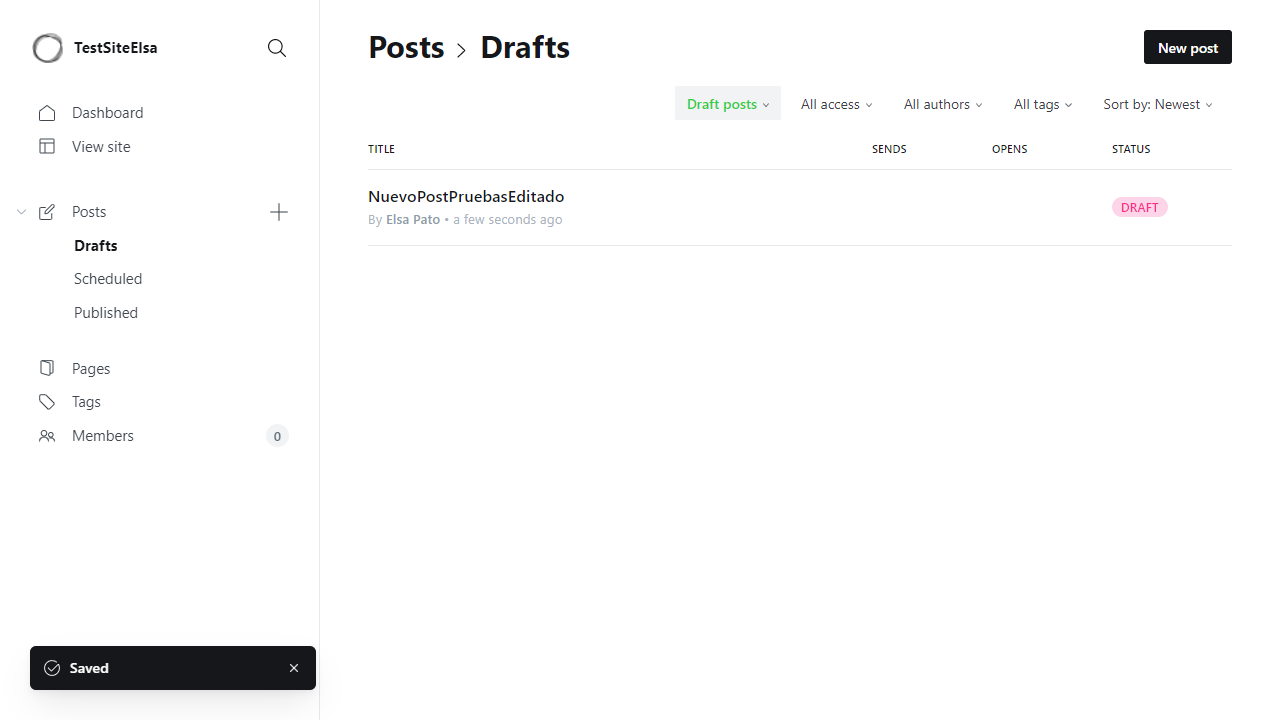
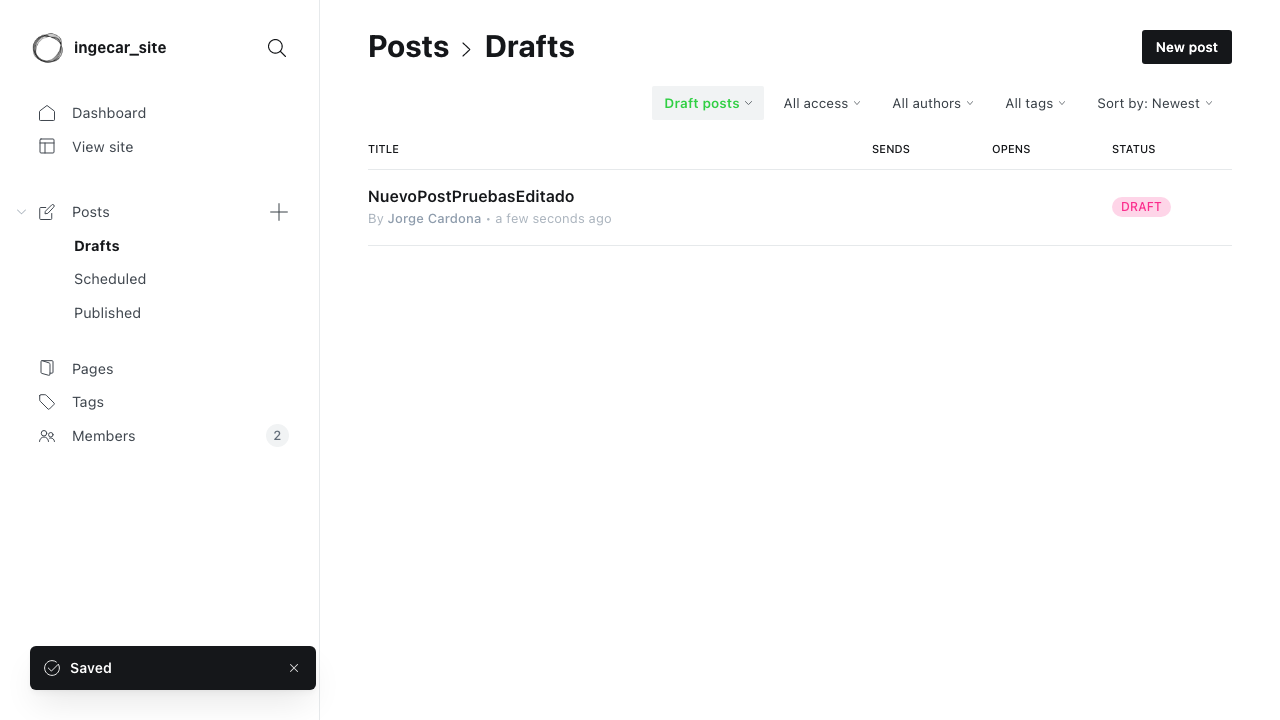
Actualizacion tests 14-05-22

diff --git a/tests/7_8_9_10_Tests_Posts.spec.ts b/tests/7_8_9_10_Tests_Posts.spec.ts
@@ -3,8 +3,8 @@ const credentials = {
     page: 'http://localhost:2368/ghost/#/signin',
     siteTitle: 'TestSiteElsa',
     fullName: 'Elsa Pato',
-    email: 'correo@correo.com',
-    pass: 'ElsaTest15+'
+    email: 'jorge.cardonaor@gmail.com',
+    pass: '0123456789'
   };
 const nombrePostPrueba = 'NuevoPostPruebas'
 
@@ -58,38 +58,38 @@ test.describe('Crear, editar, despublicar, eliminar posts', () => {
             await page.screenshot({ path: 'screenshots/Post editado.png', fullPage: true })
         ])
     })
-    test('Despublicar un post',async ({page}) => {
-        await page.locator('li', { hasText: 'Posts' }).click();
-        await page.click('a[title=Published]')
-        // await new Promise(r => setTimeout(r, 2000));
-        await page.locator('li a h3', {hasText: nombrePostPrueba.toString()}).click()
-        await page.locator('div[role="button"]:has-text("Update")').click();
-        await page.click('div[class="gh-publishmenu-radio "]')
-        await page.locator('footer button span', {hasText: 'Unpublish'}).click();
-        await new Promise(r => setTimeout(r, 3000));
-        // Captura de pantalla
-        await Promise.all([
-            page.waitForNavigation(),
-            await page.locator('a span', { hasText: 'Posts'}).click(),
-            await page.click('a[title=Drafts]'),
-            await page.screenshot({ path: 'screenshots/Post despublicado.png', fullPage: true })
-        ])
-    })
-    test('Eliminar un Post despublicado',async ({ page }) => {
-        await page.locator('li', { hasText: 'Posts' }).click();
-        await page.click('a[title=Drafts]')
-        // await new Promise(r => setTimeout(r, 2000));
-        await page.locator('li a h3', {hasText: nombrePostPrueba.toString()}).click()
-        await page.click('button[title="Settings"]')
-        await page.locator('text= Delete post').click()
-        await new Promise(r => setTimeout(r, 1000));
-        await page.locator('h1').press('Enter');
-        await Promise.all([
-            page.waitForNavigation(),
-            await page.locator('a span', { hasText: 'Posts'}).click(),
-            await page.click('a[title=Drafts]'),
-            await new Promise(r => setTimeout(r, 1000)),
-            await page.screenshot({ path: 'screenshots/Post eliminado.png', fullPage: true })
-        ])
-    })
+    // test('Despublicar un post',async ({page}) => {
+    //     await page.locator('li', { hasText: 'Posts' }).click();
+    //     await page.click('a[title=Published]')
+    //     // await new Promise(r => setTimeout(r, 2000));
+    //     await page.locator('li a h3', {hasText: nombrePostPrueba.toString()}).click()
+    //     await page.locator('div[role="button"]:has-text("Update")').click();
+    //     await page.click('div[class="gh-publishmenu-radio "]')
+    //     await page.locator('footer button span', {hasText: 'Unpublish'}).click();
+    //     await new Promise(r => setTimeout(r, 3000));
+    //     // Captura de pantalla
+    //     await Promise.all([
+    //         page.waitForNavigation(),
+    //         await page.locator('a span', { hasText: 'Posts'}).click(),
+    //         await page.click('a[title=Drafts]'),
+    //         await page.screenshot({ path: 'screenshots/Post despublicado.png', fullPage: true })
+    //     ])
+    // })
+    // test('Eliminar un Post despublicado',async ({ page }) => {
+    //     await page.locator('li', { hasText: 'Posts' }).click();
+    //     await page.click('a[title=Drafts]')
+    //     // await new Promise(r => setTimeout(r, 2000));
+    //     await page.locator('li a h3', {hasText: nombrePostPrueba.toString()}).click()
+    //     await page.click('button[title="Settings"]')
+    //     await page.locator('text= Delete post').click()
+    //     await new Promise(r => setTimeout(r, 1000));
+    //     await page.locator('h1').press('Enter');
+    //     await Promise.all([
+    //         page.waitForNavigation(),
+    //         await page.locator('a span', { hasText: 'Posts'}).click(),
+    //         await page.click('a[title=Drafts]'),
+    //         await new Promise(r => setTimeout(r, 1000)),
+    //         await page.screenshot({ path: 'screenshots/Post eliminado.png', fullPage: true })
+    //     ])
+    // })
 })

diff --git a/tests/1_2_3_4_Test_Miembros.spec.ts b/tests/1_2_3_4_Test_Miembros.spec.ts
@@ -1,0 +1,77 @@
+import { test, expect } from '@playwright/test';
+const credentials = {
+    page: 'http://localhost:2368/ghost/#/signin',
+    siteTitle: 'TestSiteElsa',
+    fullName: 'Elsa Pato',
+    email: 'jorge.cardonaor@gmail.com',
+    pass: '0123456789'
+  };
+const MemberName = 'MemberTest';
+const MemberEmail = 'MemberTest@gmail.com';
+const MemberTags: Array<string>  = ['autos', 'motos'];
+
+test.beforeEach(async ({ page }) => {
+    await page.goto(credentials.page);
+    await page.type('input[name=identification]', credentials.email)
+    await page.type('input[name=password]', credentials.pass)
+    await page.click('button[type=submit]')
+});
+
+test.describe('Crear, editar, eliminar miembro', () => {
+
+    test('Crear un Miembro', async ({ page }) => {
+        await page.locator('li', { hasText: 'Members' }).click();
+        await page.locator('text=New member').click();
+        await expect(page).toHaveURL('http://localhost:2368/ghost/#/members/new');
+        await page.type('input[name=name]', MemberName.toString())
+        await page.type('input[name=email]', MemberEmail.toString())
+        // for(let a = 0; a < MemberTags.length; a++){
+        //     await page.locator('input[type="search"]').fill(MemberTags[a]);
+        //     await page.locator('input[type="search"]').press('Enter');
+        // }
+        // Click on save
+        await Promise.all([
+            page.waitForNavigation(),
+            page.locator('button:has-text("Save")').click()
+        ])
+        // Cscreenshot capture
+        await Promise.all([
+            page.waitForNavigation(),
+            await page.locator('h2 a', { hasText: 'Members'}).click(),
+            await page.screenshot({ path: 'screenshots/ejemplo_member.png', fullPage: true }),            
+        ])
+    })
+    test('Editar un Miembro',async ({ page }) => {
+        await page.locator('li', { hasText: 'Members' }).click();
+        await page.locator('div h3', {hasText: MemberName.toString()}).click()
+        await page.locator('textarea').fill(MemberName + ' Editado');
+
+        // Click Update
+        // await new Promise(r => setTimeout(r, 1000));
+        page.locator('button:has-text("Save")').click()
+        await new Promise(r => setTimeout(r, 2000));
+
+        // Captura de pantalla
+        await Promise.all([
+            page.waitForNavigation(),
+            await page.locator('h2 a', { hasText: 'Members'}).click(),
+            await page.locator('div h3', {hasText: MemberName.toString()}).click(),
+            await page.screenshot({ path: 'screenshots/ejemplo_edited_member.png', fullPage: true }),            
+        ])
+    })
+
+    test('Eliminar un Member',async ({ page }) => {
+        await page.locator('li', { hasText: 'Members' }).click();
+        await page.locator('div h3', {hasText: MemberName.toString()}).click()
+        // await new Promise(r => setTimeout(r, 2000));
+
+        await page.locator('button[role="button"]:has-text(".settings_svg__a{fill:none;stroke:currentColor;stroke-linecap:round;stroke-linej")').click();
+        await page.locator('button:has-text("Delete member")').click();
+        await page.locator('button span', { hasText: 'Delete Members' }).click();
+        await new Promise(r => setTimeout(r, 3000));
+    
+        await Promise.all([
+            await page.screenshot({ path: 'screenshots/ejemplo_edited_member.png', fullPage: true }),            
+        ])
+    })
+})

diff --git a/tests/test-1.spec.ts b/tests/test-1.spec.ts
@@ -1,0 +1,5 @@
+import { test, expect } from '@playwright/test';
+
+test('test', async ({ page }) => {
+
+});
